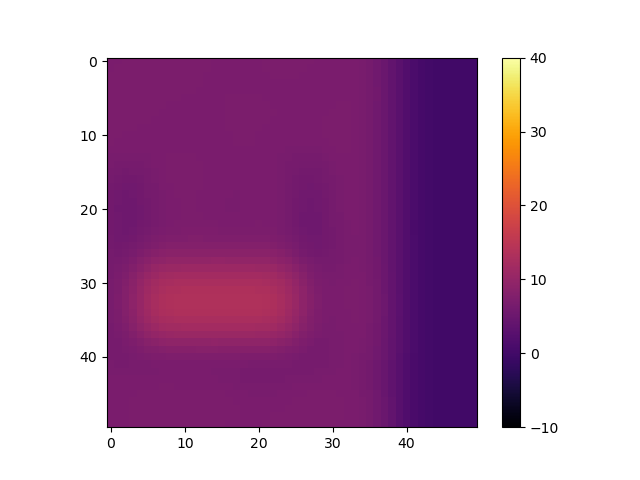
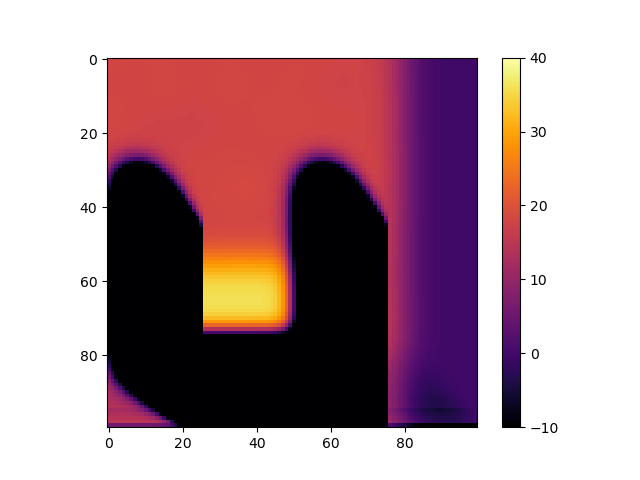
drifting to origin problem arises

diff --git a/physics.py b/physics.py
@@ -115,8 +115,6 @@ def addContainer(raster, container_temp):
     np.put(leftedge_col, [range(container_tl[1], bottomrow_index)], v=color_value)
     np.put(rightedge_col, [range(container_tr[1], bottomrow_index)], v=color_value)
 
-    print(raster)
-
     #ooutput container information to pass to other functions
     container = {'container_bl': container_bl,
                  'container_tl':container_tl,
@@ -124,6 +122,59 @@ def addContainer(raster, container_temp):
                  'container_tr':container_tr}
 
     return container
+
+def coolingRaster(resX, resY, container_temp):
+
+    '''Creates a layer with only the cooling container information, can be added to other rasters to simulate cooling the container'''
+
+    #add container to raster
+    color_value=container_temp
+
+    #get dimensions from raster
+    x_dim = resX
+    y_dim = resY
+
+    raster = np.zeros(shape=(resX,resY))
+
+    #print("dimensions: {},{}".format(x_dim,y_dim))
+
+
+    # define container width and height
+    container_width = x_dim / 2
+    container_height = y_dim/2
+
+    # set coordinates of container corners
+    container_bl = [int(container_width/2),0]
+    container_br = [int(container_bl[0])+int(container_width),0]
+    container_tl = [int(container_width/2),(int(container_height))]
+    container_tr = [int(container_bl[0])+int(container_width),int(container_height)]
+
+    #print("Corners:\ntl: {}\nbl: {}\ntr: {}\nbr: {}".format(container_tl,container_bl,container_tr,container_br))
+
+
+    # create bottom of container
+    col_cont_bl = container_bl[0]
+    col_cont_br = container_br[0]
+
+    # get rows/cols of edges of container
+    bottomrow_index = y_dim - 1
+    bottomedge_row = raster[-1,:]
+    leftedge_col = raster[:,container_tl[0]]
+    rightedge_col = raster[:,container_tr[0]]
+
+    #set edges of container to be values to 10
+    np.put(bottomedge_row, [range(container_bl[0], container_br[0]+1)],v=color_value)
+    np.put(leftedge_col, [range(container_tl[1], bottomrow_index)], v=color_value)
+    np.put(rightedge_col, [range(container_tr[1], bottomrow_index)], v=color_value)
+
+    #ooutput container information to pass to other functions
+    container = {'container_bl': container_bl,
+                 'container_tl':container_tl,
+                 'container_br':container_br,
+                 'container_tr':container_tr}
+
+    return raster
+
 
 #pre-fill container
 def containerPreFill(container, raster, resX, resY, filling_height, fill_temp):
@@ -199,14 +250,14 @@ def diffusion(in_raster, resX, resY, diffusion_index, container_temp, loss_over_
 
     #set up a temporary raster to allow for energy transfer and pad the array to account for external influence
     temporary_raster = np.zeros(shape=(resX,resY))
-    #temporary_raster[1:-1, 1:-1] = 0
-    #temporary_raster[-1] = container_temp
+    temporary_raster[1:-1, 1:-1] = 0
+    temporary_raster[-1] = container_temp
 
 
     #loop through and calculate energy transfer per cell
     y = 0
     #loop through rows
-    while y < resX-1:
+    while y < resX:
 
         x = 0
         #loop through columns
@@ -215,8 +266,15 @@ def diffusion(in_raster, resX, resY, diffusion_index, container_temp, loss_over_
             temporary_raster = decider_diffusion_temp(in_raster,temporary_raster,x,y, diffusion_index, diffusion_degree)
 
 
+
+
             x+=1
+
+        cooling = coolingRaster(resX, resY, container_temp)
+        temporary_raster = np.add(temporary_raster, cooling)
         y+=1
+
+
 
     # pad again
     #temporary_raster[-1] = container_temp
@@ -305,7 +363,11 @@ def decider_diffusion_in(in_raster, temporary_raster, x, y, diffusion_index, dif
 
         x_temp = x + neighbour[0]
         y_temp = y + neighbour[1]
-        neighs.append((x_temp,y_temp))
+
+        if x_temp == 0 and y_temp == 0:
+            pass
+        else:
+            neighs.append((x_temp,y_temp))
 
     #get how many are legal (within bounds)
     division = len(neighs)

diff --git a/visualizer.py b/visualizer.py
@@ -12,7 +12,7 @@ from convectionModel.physics import *
 
 
 # raster size and timesteps
-resX = 50
+resX = 100
 resY = resX
 timesteps = 10
 container_temp = -10
@@ -21,8 +21,8 @@ container_temp = -10
 pre_fill = True
 fill_temp = 40
 filling_height = 0.75
-diffusion_index = 0.1
-diffusion_degree = 6
+diffusion_index = 0.01
+diffusion_degree = 9
 loss_over_time = 0
 
 # set up list to convert output to gif
@@ -44,13 +44,6 @@ t = 0
 in_raster = np.random.random(size=(resX,resY))
 
 timestepper(t,timesteps, in_raster, container_temp, filling_height, fill_temp, diffusion_index, loss_over_time, diffusion_degree)
-
-
-
-
-
-
-
 
 
 # create gif from individual timesteps
